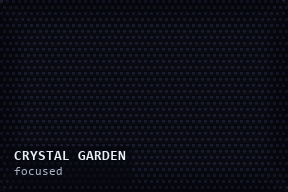
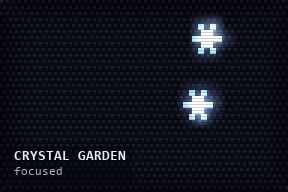
Add Firefly Meadow and Slime Mold, 3x2 shelf, portable USB build
- Firefly Meadow: pulse-coupled fireflies drift between twinkling and synchronized
  waves; synchronized pairs lay eggs that hatch.
- Slime Mold: Physarum agents grow vein networks between oat flakes, starve and
  regrow; the scent blur runs on packed big-int lanes (~0.06 ms per step).
- Shelf lays out 3x2 for six environments.
- dev/build_portable.ps1: PyInstaller folder build that runs off a USB stick and
  writes nothing to the host; screenshots resolve next to Terrarium.exe.
- Headless output uses an ASCII arrow so it doesn't crash on cp1252 pipes.

Changed region(s): [[0.6562, 0.0625, 0.8125, 0.3125], [0.625, 0.4375, 0.7812, 0.6562]]

diff --git a/terrarium.py b/terrarium.py
@@ -669,7 +669,292 @@ class Pulse(Env):
         return {"active": len(self.active), "firing": self.pix.count(1)}
 
 
-ENVIRONMENTS = [Tidepool, EmberForest, Crystal, Pulse]
+# ── Firefly Meadow ───────────────────────────────────────────────────────────
+class Fireflies(Env):
+    """Pulse-coupled oscillators: each firefly flashes on its own rhythm, and every flash nudges the
+    fireflies nearby a little closer to flashing. Coupling waxes and wanes, so the meadow drifts from
+    scattered twinkling to waves of light rolling across the grass. Fireflies that flash together court
+    and lay glowing eggs in the grass; the eggs hatch, and old fireflies fade out."""
+    name, mood, tempo = "Firefly Meadow", "dreamy", 20
+    glow = (16, 17, 18, 19, 41, 42, 43, 44, 45, 46, 48, 50)
+    TOP, MAX = 22, 64                               # fireflies keep below TOP; cap on fireflies + eggs
+    X, Y, VX, VY, PHASE, PERIOD, AGE, LIFE, FLASH = range(9)
+
+    def __init__(self, seed=None):
+        super().__init__(seed)
+        r = self.rng
+        self.ph = ph = r.random() * 6
+        p = self.palette
+        p[0:16] = ramp([(8, 10, 30), (20, 30, 64), (38, 62, 88)], 16)
+        p[20:24] = [shade((14, 22, 30), .8 + s * .12) for s in range(4)]
+        p[24:32] = ramp([(10, 26, 22), (26, 62, 42), (84, 128, 96)], 8)
+        p[32:36] = [shade((8, 16, 14), .8 + s * .12) for s in range(4)]
+        p[40] = (44, 50, 32)                        # a firefly between flashes
+        p[41:46] = ramp([(250, 255, 196), (200, 244, 96), (110, 160, 40)], 5)
+        p[46] = (64, 92, 28)                        # flash halo
+        p[50], p[51] = (238, 234, 210), (196, 194, 180)
+        hz = [26 + int(3 * math.sin(x / 11 + ph) + 2 * math.sin(x / 5 + 2 * ph)) for x in range(W)]
+        for _ in range(r.randint(6, 11)):           # conifers on the ridge
+            cx, h = r.randrange(W), r.randint(4, 11)
+            top = hz[cx] - h
+            for dx in range(-h // 2, h // 2 + 1):
+                if 0 <= cx + dx < W:
+                    hz[cx + dx] = min(hz[cx + dx], top + abs(dx) * 2)
+        self.meadow = [H - 12 + int(1.5 * math.sin(x / 7 + ph)) for x in range(W)]
+        for y in range(H):
+            for x in range(W):
+                if y < hz[x]:
+                    v = min(15, y * 16 // 30)
+                elif y < self.meadow[x]:
+                    v = 20 + r.randrange(4)
+                else:
+                    v = 32 + r.randrange(4)
+                self.pix[y * W + x] = v
+        for _ in range(45):
+            x, y = r.randrange(W), r.randrange(H)
+            if y < hz[x] - 1:
+                self.pix[y * W + x] = 16 + r.randrange(4)
+        mx, my = r.randrange(10, W - 10), r.randrange(5, 10)
+        for dy in range(-3, 4):
+            for dx in range(-3, 4):
+                if dx * dx + dy * dy <= 10 and my + dy < hz[mx + dx]:
+                    self.pix[(my + dy) * W + mx + dx] = 51 if (dx, dy) in ((1, -1), (-1, 1), (0, 2)) else 50
+        self.blades = [(x, self.meadow[x] + r.randrange(3), r.randint(3, 9), r.random() * 6)
+                       for x in range(W) for _ in range(2) if r.random() < .8]
+        self.grass, self.grass_at = None, -1
+        self.flies = [self.new_fly(r.uniform(2, W - 2), r.uniform(self.TOP, H - 4)) for _ in range(22)]
+        for f in self.flies:
+            f[self.AGE] = r.randrange(f[self.LIFE])
+        self.eggs = []
+        self.eps = 0.
+
+    def new_fly(self, x, y, phase=None):
+        r = self.rng
+        return [x, y, 0., 0., r.random() if phase is None else phase, r.uniform(34, 44), 0, r.randint(1600, 3200), 0]
+
+    def step(self):
+        super().step()
+        r = self.rng.random
+        X, Y, VX, VY, PHASE, PERIOD, AGE, LIFE, FLASH = range(9)
+        self.eps = eps = .003 + .06 * (.5 + .5 * math.sin(self.steps / 1400 + self.ph)) ** 2
+        flashed = []
+        for f in self.flies:
+            f[VX] = f[VX] * .94 + (r() - .5) * .07
+            f[VY] = f[VY] * .94 + (r() - .5) * .05
+            f[X] += f[VX]
+            f[Y] += f[VY]
+            if not 1 <= f[X] < W - 1:
+                f[VX], f[X] = -f[VX], max(1., min(W - 1.01, f[X]))
+            if not self.TOP <= f[Y] < H - 3:
+                f[VY], f[Y] = -f[VY], max(self.TOP, min(H - 3.01, f[Y]))
+            f[AGE] += 1
+            if f[FLASH]:
+                f[FLASH] -= 1
+            f[PHASE] += 1 / f[PERIOD]
+            if f[PHASE] >= 1:
+                f[PHASE], f[FLASH] = 0., 5
+                flashed.append(f)
+        for f in flashed:                           # each flash pulls nearby, nearly-ready fireflies forward
+            x, y = f[X], f[Y]
+            for g in self.flies:
+                if g[PHASE] > .2 and abs(g[X] - x) < 16 and abs(g[Y] - y) < 12:
+                    g[PHASE] += eps * (1 + g[PHASE])
+        crowd = len(self.flies) + len(self.eggs)
+        for f in flashed:                           # flashing in unison is courtship; easier when the meadow is sparse
+            for g in self.flies:
+                if g is not f and g[FLASH] >= 3 and abs(f[X] - g[X]) < 8 and abs(f[Y] - g[Y]) < 6 \
+                        and crowd < self.MAX and r() < .2 + .6 * (1 - crowd / self.MAX):
+                    ex = int(f[X])
+                    self.eggs.append([ex, self.meadow[ex] + 1 + int(r() * 6), 500 + int(r() * 500)])
+                    crowd += 1
+                    break
+        self.flies = [f for f in self.flies if f[AGE] < f[LIFE]]
+        waiting = []
+        for e in self.eggs:
+            e[2] -= 1
+            if e[2] <= 0:
+                self.flies.append(self.new_fly(e[0] + .5, e[1] - 2.))
+            else:
+                waiting.append(e)
+        self.eggs = waiting
+        if len(self.flies) < 10 and r() < .01:      # a wanderer drifts in from the edge
+            self.flies.append(self.new_fly(1. if r() < .5 else W - 2., self.TOP + r() * (H - 4 - self.TOP)))
+
+    def frame(self):
+        if self.grass_at != self.steps:             # sway the grass once per step, not per frame
+            g = bytearray(self.pix)
+            t = self.steps * .045
+            for x, base, h, ph in self.blades:
+                sway = 1.6 * math.sin(t + x * .12 + ph) + .6 * math.sin(t * 2.3 + ph)
+                for k in range(h):
+                    px = x + round(sway * (k / h) ** 2)
+                    if 0 <= px < W and base - k < H:
+                        g[(base - k) * W + px] = 24 + k * 8 // h
+            self.grass, self.grass_at = g, self.steps
+        out = bytearray(self.grass)
+        for x, y, _ in self.eggs:
+            if y < H:
+                out[y * W + x] = 48
+        for f in self.flies:
+            i = int(f[self.Y]) * W + int(f[self.X])
+            fl = f[self.FLASH]
+            if fl:
+                out[i] = 46 - fl
+                if fl >= 3:
+                    for j in (i - 1, i + 1, i - W, i + W):
+                        out[j] = 46
+            else:
+                out[i] = 40
+        return out
+
+    def animate(self, t):
+        p = self.palette
+        for k in range(4):
+            p[16 + k] = shade((210, 216, 255), .55 + .45 * math.sin(t * (1.1 + k * .37) + k * 2.1))
+        p[48] = mix((34, 60, 28), (150, 220, 96), .5 + .5 * math.sin(t * 1.7))
+
+    def poke(self, x, y):
+        for _ in range(5):                          # release a little choir that flashes together
+            self.flies.append(self.new_fly(max(1., min(W - 2., x + self.rng.uniform(-3, 3))),
+                                           max(self.TOP, min(H - 4., y + self.rng.uniform(-2, 2))), .98))
+
+    def vitals(self):
+        n = len(self.flies)
+        c = sum(math.cos(f[self.PHASE] * math.tau) for f in self.flies)
+        s = sum(math.sin(f[self.PHASE] * math.tau) for f in self.flies)
+        return {"fireflies": n, "eggs": len(self.eggs), "sync": round(math.hypot(c, s) / max(1, n), 2),
+                "coupling": round(self.eps, 3)}
+
+
+# ── Slime Mold ───────────────────────────────────────────────────────────────
+class SlimeMold(Env):
+    """Physarum: hundreds of tiny agents each sniff the scent trail ahead (left, centre, right), turn
+    toward the strongest, step forward and leave scent behind. Scent spreads and evaporates, and the
+    agents knit themselves into a network of veins between oat flakes. Food makes the mould grow;
+    when it runs out the mould starves and pulls back until new oats fall."""
+    name, mood, tempo = "Slime Mold", "curious", 18
+    glow = tuple(range(44, 64)) + (64, 65, 66, 67)
+    DIRS, SA, RA, SO = 32, 4, 3, 4                  # headings, sensor angle, turn step, sensor distance
+    FULL, MAX = 500, 700                            # agent energy when fed; population cap
+
+    def __init__(self, seed=None):
+        super().__init__(seed)
+        r = self.rng
+        n = W * H
+        self.trail = bytearray(n)
+        self.lane_mask = int.from_bytes(b"\xff\x00" * n, "little")
+        self.dx = [math.cos(k / self.DIRS * math.tau) for k in range(self.DIRS)]
+        self.dy = [math.sin(k / self.DIRS * math.tau) for k in range(self.DIRS)]
+        self.decay = bytes(max(0, v * 93 // 100 - 1) for v in range(256))
+        self.shades = bytes(min(63, v >> 2) for v in range(256))
+        self.base = ramp([(16, 20, 22), (44, 40, 20), (150, 108, 26), (244, 196, 64), (255, 246, 196)], 64)
+        self.palette[0:64] = self.base
+        self.palette[64:68] = [shade((236, 222, 186), .8 + s * .07) for s in range(4)]
+        self.food = {}                              # pixel -> [amount, oat id]
+        self.oats = 0
+        self.timer = 0
+        cx, cy = r.uniform(20, W - 20), r.uniform(16, H - 16)
+        self.agents = [[cx + r.uniform(-4, 4), cy + r.uniform(-4, 4), r.randrange(self.DIRS), r.randint(200, self.FULL)]
+                       for _ in range(300)]
+        for _ in range(4):
+            self.drop(r.randrange(4, W - 4), r.randrange(4, H - 4))
+
+    def drop(self, x, y):
+        """Lay an oat flake: a little disc of food that smells irresistible."""
+        self.oats += 1
+        for dy in range(-2, 3):
+            for dx in range(-2, 3):
+                if dx * dx + dy * dy <= 5 and 0 <= x + dx < W and 0 <= y + dy < H:
+                    self.food[(y + dy) * W + x + dx] = [90, self.oats]
+
+    def spread(self, T):
+        """Blur the scent, (4·centre + 4 neighbours) / 8, for every pixel at once: pack the bytes into
+        16-bit lanes of one big integer and add shifted copies of it, so no per-pixel Python runs.
+        (Row ends bleed into the next row, but the agents bounce off the walls so the edges stay faint.)"""
+        lanes = bytearray(2 * W * H)
+        lanes[::2] = T
+        A = int.from_bytes(lanes, "little")
+        S = ((A << 2) + (A << 16) + (A >> 16) + (A << 16 * W) + (A >> 16 * W)) >> 3 & self.lane_mask
+        return bytearray(S.to_bytes(2 * W * H, "little")[::2])
+
+    def step(self):
+        super().step()
+        r = self.rng.random
+        T, food, dx, dy = self.trail, self.food, self.dx, self.dy
+        D, SA, RA, SO, FULL = self.DIRS, self.SA, self.RA, self.SO, self.FULL
+        for i in food:
+            T[i] = 255                              # oats give off scent
+        born, alive = [], []
+        for a in self.agents:
+            x, y, h, e = a
+            s = []
+            for k in (h - SA, h, h + SA):
+                sx, sy = int(x + dx[k % D] * SO), int(y + dy[k % D] * SO)
+                s.append(T[sy * W + sx] if 0 <= sx < W and 0 <= sy < H else 0)
+            left, mid, right = s
+            if mid >= left and mid >= right:
+                pass
+            elif left > right:
+                h -= RA
+            elif right > left:
+                h += RA
+            else:
+                h += RA if r() < .5 else -RA
+            h = (h + (1 if r() < .1 else -1 if r() < .11 else 0)) % D
+            nx, ny = x + dx[h], y + dy[h]
+            if not (0 <= nx < W and 0 <= ny < H):
+                h, nx, ny = int(r() * D), x, y      # bumped the dish wall
+            i = int(ny) * W + int(nx)
+            if i in food:
+                f = food[i]
+                f[0] -= 1
+                if f[0] <= 0:
+                    del food[i]
+                e = FULL
+                if r() < .04 and len(self.agents) + len(born) < self.MAX:
+                    born.append([nx, ny, int(r() * D), FULL])
+            elif T[i] < 120 or r() < .5:            # veins carry nutrients; lone wanderers starve faster
+                e -= 1
+            if e > 0:
+                T[i] = min(255, T[i] + 60)
+                a[:] = nx, ny, h, e
+                alive.append(a)
+        self.agents = alive + born
+        self.trail = T = self.spread(T).translate(self.decay)
+        self.pix[:] = T.translate(self.shades)
+        for i, (amt, _) in food.items():
+            self.pix[i] = 64 + min(3, amt // 25)
+        self.timer -= 1
+        if self.timer <= 0:                         # new oats fall: sooner when the dish is bare
+            for _ in range(1 + int(r() * 2)):
+                self.drop(2 + int(r() * (W - 4)), 2 + int(r() * (H - 4)))
+            self.timer = (150 if not food else 500) + int(r() * 400)
+        if len(self.agents) < 20:                   # a dormant sclerotium wakes up
+            x, y = 6 + r() * (W - 12), 6 + r() * (H - 12)
+            self.agents += [[x, y, int(r() * D), FULL] for _ in range(60)]
+
+    def animate(self, t):
+        p = self.palette
+        for k in range(1, 64):                      # shuttle streaming: the network slowly breathes
+            p[k] = shade(self.base[k], 1 + .14 * math.sin(t * 1.4 - k * .09) * k / 63)
+
+    def poke(self, x, y):
+        self.drop(x, y)
+
+    def vitals(self):
+        return {"agents": len(self.agents), "oats": len({o for _, o in self.food.values()}),
+                "veins": sum(1 for v in self.trail if v > 64)}
+
+
+ENVIRONMENTS = [Tidepool, EmberForest, Crystal, Pulse, Fireflies, SlimeMold]
+
+
+def app_dir():
+    """Where Terrarium lives: next to the script, or next to Terrarium.exe when packaged (so screenshots
+    land on the USB stick, never in the host PC's temp folder)."""
+    if getattr(sys, "frozen", False):
+        return os.path.dirname(sys.executable)
+    return os.path.dirname(os.path.abspath(__file__))
 
 
 # ── the window ───────────────────────────────────────────────────────────────
@@ -699,15 +984,22 @@ class App:
         self.overlay_cache = {}
         self.drag = None
         self.last_click = (0, -1)
-        self.shots = os.path.join(os.path.dirname(os.path.abspath(__file__)), "shots")
+        self.shots = os.path.join(app_dir(), "shots")
         self.toast = ("", 0)
         self.restore = None
         if args.mini:
             self.set_mode("mini")
 
+    def shape(self):
+        """Shelf layout (cols, rows): 2x2 for four environments, 3x2 for up to six, then 3 rows."""
+        rows = 2 if len(self.envs) <= 6 else 3
+        return -(-len(self.envs) // rows), rows
+
     def default_size(self, mode):
         if mode == "grid":
-            return (W * 8 + self.GAP * 3, H * 8 + self.GAP * 3)
+            cols, rows = self.shape()
+            s = 16 // cols                          # keep the shelf about as wide as the old 2x2
+            return (W * s * cols + self.GAP * (cols + 1), H * s * rows + self.GAP * (rows + 1))
         if mode == "single":
             return (W * 8, H * 8)
         return (W * 3, H * 3)
@@ -748,10 +1040,11 @@ class App:
             tw, th = int(W * s), int(H * s)
             return [(self.cur, R((w - tw) // 2, (h - th) // 2, tw, th))]
         g = self.GAP
-        s = min((w - 3 * g) / (2 * W), (h - 3 * g) / (2 * H))
+        cols, rows = self.shape()
+        s = min((w - (cols + 1) * g) / (cols * W), (h - (rows + 1) * g) / (rows * H))
         tw, th = int(W * s), int(H * s)
-        ox, oy = (w - 2 * tw - g) // 2, (h - 2 * th - g) // 2
-        return [(k, R(ox + (k % 2) * (tw + g), oy + (k // 2) * (th + g), tw, th)) for k in range(len(self.envs))]
+        ox, oy = (w - cols * tw - (cols - 1) * g) // 2, (h - rows * th - (rows - 1) * g) // 2
+        return [(k, R(ox + (k % cols) * (tw + g), oy + (k // cols) * (th + g), tw, th)) for k in range(len(self.envs))]
 
     def overlay(self, size):
         """Scanlines + soft vignette, cached per tile size."""
@@ -932,7 +1225,7 @@ def run_headless(steps, seed):
             if s % every == 0:
                 print(f"  step {s:5d}  " + "  ".join(f"{k} {v}" for k, v in env.vitals().items()))
         ms = (time.perf_counter() - t0) / steps * 1000
-        print(f"  {ms:.2f} ms/step  →  {ms * env.tempo / 10:.1f}% of one core at its tempo")
+        print(f"  {ms:.2f} ms/step  ->  {ms * env.tempo / 10:.1f}% of one core at its tempo")
 
 
 def main(argv=None):

diff --git a/README.md b/README.md
@@ -1,6 +1,6 @@
 # Terrarium
 
-A little shelf of living pixel environments: a digital desk garden for a side screen.
+A little shelf of six living pixel environments: a digital desk garden for a side screen.
 
 Each environment is a 96×64 world with its own physics and its own mood. Each one runs a loop where growth and decay
 pull against each other, so it never fills up and never dies out. It just keeps moving.
@@ -18,6 +18,18 @@ cd D:\playground\claude\terrarium
 
 (Reuses the Scribblefall venv; anywhere else: `pip install pygame-ce`.)
 
+## Portable build (USB stick)
+
+```powershell
+powershell -ExecutionPolicy Bypass -File devuild_portable.ps1
+```
+
+This makes `dist\Terrarium\` (about 34 MB) and `dist\Terrarium-portable.zip` (about 14 MB). Copy the folder to a stick and run
+`Terrarium.exe`, or `Terrarium mini.cmd` for the corner widget. The other PC needs no Python and no install.
+It's a PyInstaller *folder* build on purpose: a one-file exe would unpack itself into the host's `%TEMP%` on every
+launch, while the folder runs straight off the stick. Screenshots go to `shots\` next to the exe, so they're on the stick too.
+Only the build machine needs [uv](https://docs.astral.sh/uv/).
+
 ## The environments
 
 | | mood | the loop |
@@ -26,12 +38,14 @@ cd D:\playground\claude\terrarium
 | **Ember Forest** | restless | trees spread from neighbours and darken as they age → lightning and drifting embers start fires that race downwind (older trees burn more readily) → ash crumbles back to soil. Population swings between ~1k and ~4k trees: boom, burn, regrow. |
 | **Crystal Garden** | focused | Packard snowflakes on a hex lattice: an empty cell freezes if its count of frozen neighbours is in this bloom's rule. Each bloom picks a rule, colour family and seed layout, grows, holds, then melts from the tips or from the heart, and a new one begins. |
 | **Pulse** | hypnotic | a Greenberg–Hastings excitable medium: cells fire, then rest. Propagation slowly drifts between perfect (crisp geometric diamonds) and lossy (fronts break and curl into self-sustaining spirals). The colours drift through the hue wheel over minutes. |
+| **Firefly Meadow** | dreamy | pulse-coupled oscillators: every flash nudges nearby fireflies closer to flashing. Coupling waxes and wanes, so the meadow drifts from scattered twinkling to waves of light rolling across the grass → fireflies that flash together lay glowing eggs in the grass → eggs hatch, old fireflies fade. Stars twinkle, grass sways under the moon. |
+| **Slime Mold** | curious | Physarum: hundreds of agents sniff the scent ahead, turn toward the strongest and leave scent behind, knitting a vein network between oat flakes → feeding makes it grow → when the oats run out it starves and pulls back → new oats fall. The veins slowly breathe (shuttle streaming). |
 
 ## Controls
 
 | | |
 |---|---|
-| click | poke the world: feed the pool, start a fire / plant trees, seed a crystal, drop a pulse |
+| click | poke the world: feed the pool, start a fire / plant trees, seed a crystal, drop a pulse, release fireflies, drop an oat flake |
 | double-click a tile · Tab | open it · back to the shelf |
 | ← → / wheel | switch environment (single + mini) |
 | M | mini mode (drag to move, right-click to poke) |
@@ -50,5 +64,7 @@ cd D:\playground\claude\terrarium
   additive blending.
 - Each env runs at its own `tempo` (steps/sec): Crystal breathes at 14, the forest at 24. Together they use well
   under 10% of one CPU core.
+- Slime Mold blurs its scent map without a per-pixel loop: the bytes are packed into 16-bit lanes of one big
+  Python integer, and shifted copies of it are added together.
 - Adding an environment is one class: `step()`, `animate(t)`, optionally `poke()`, `frame()` (for sprites like
   fish and embers) and `vitals()` (for the headless check). Then add it to `ENVIRONMENTS`.
